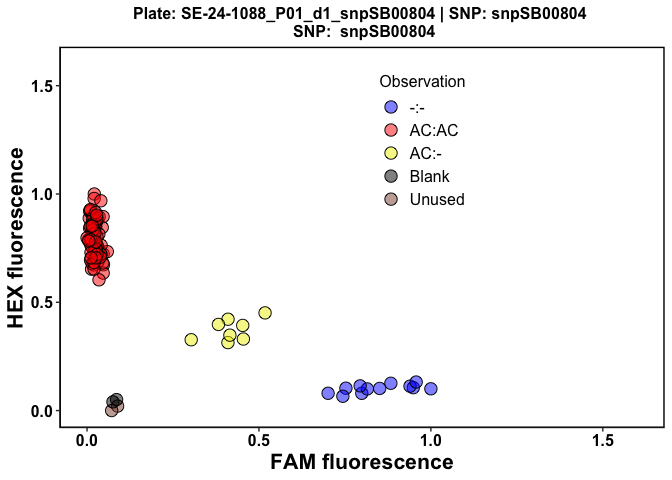
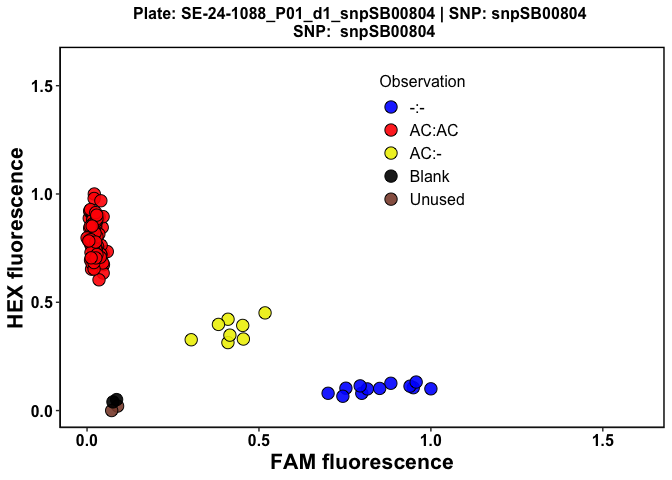
ReadMe updates

diff --git a/README.md b/README.md
@@ -199,7 +199,7 @@ kasp_qc_ggplot2(x = dat1[5],
                     Group_id = NULL,
                     scale = TRUE,
                     expand_axis = 0.6,
-                    alpha = 0.5,
+                    alpha = 0.9,
                     legend.pos.x = 0.6,
                     legend.pos.y = 0.75)
 #> $`SE-24-1088_P01_d1_snpSB00804`
